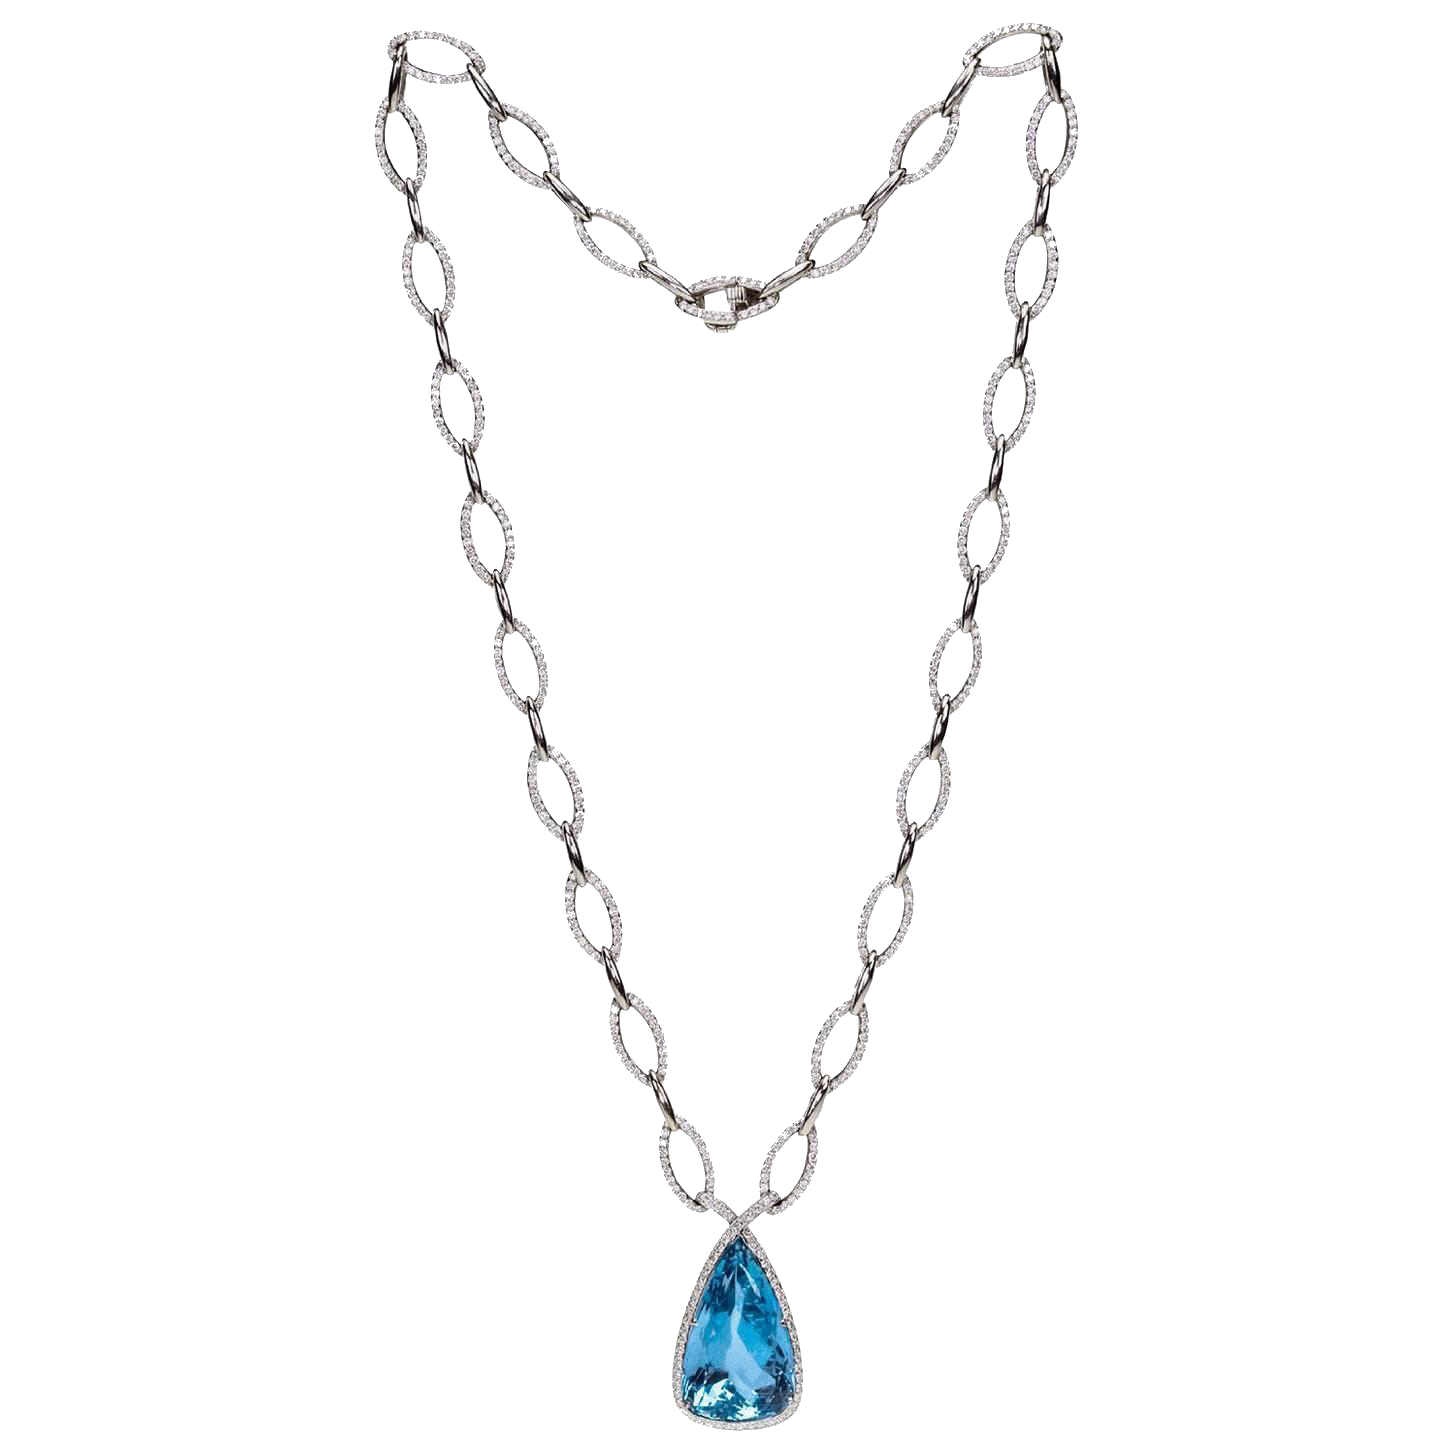
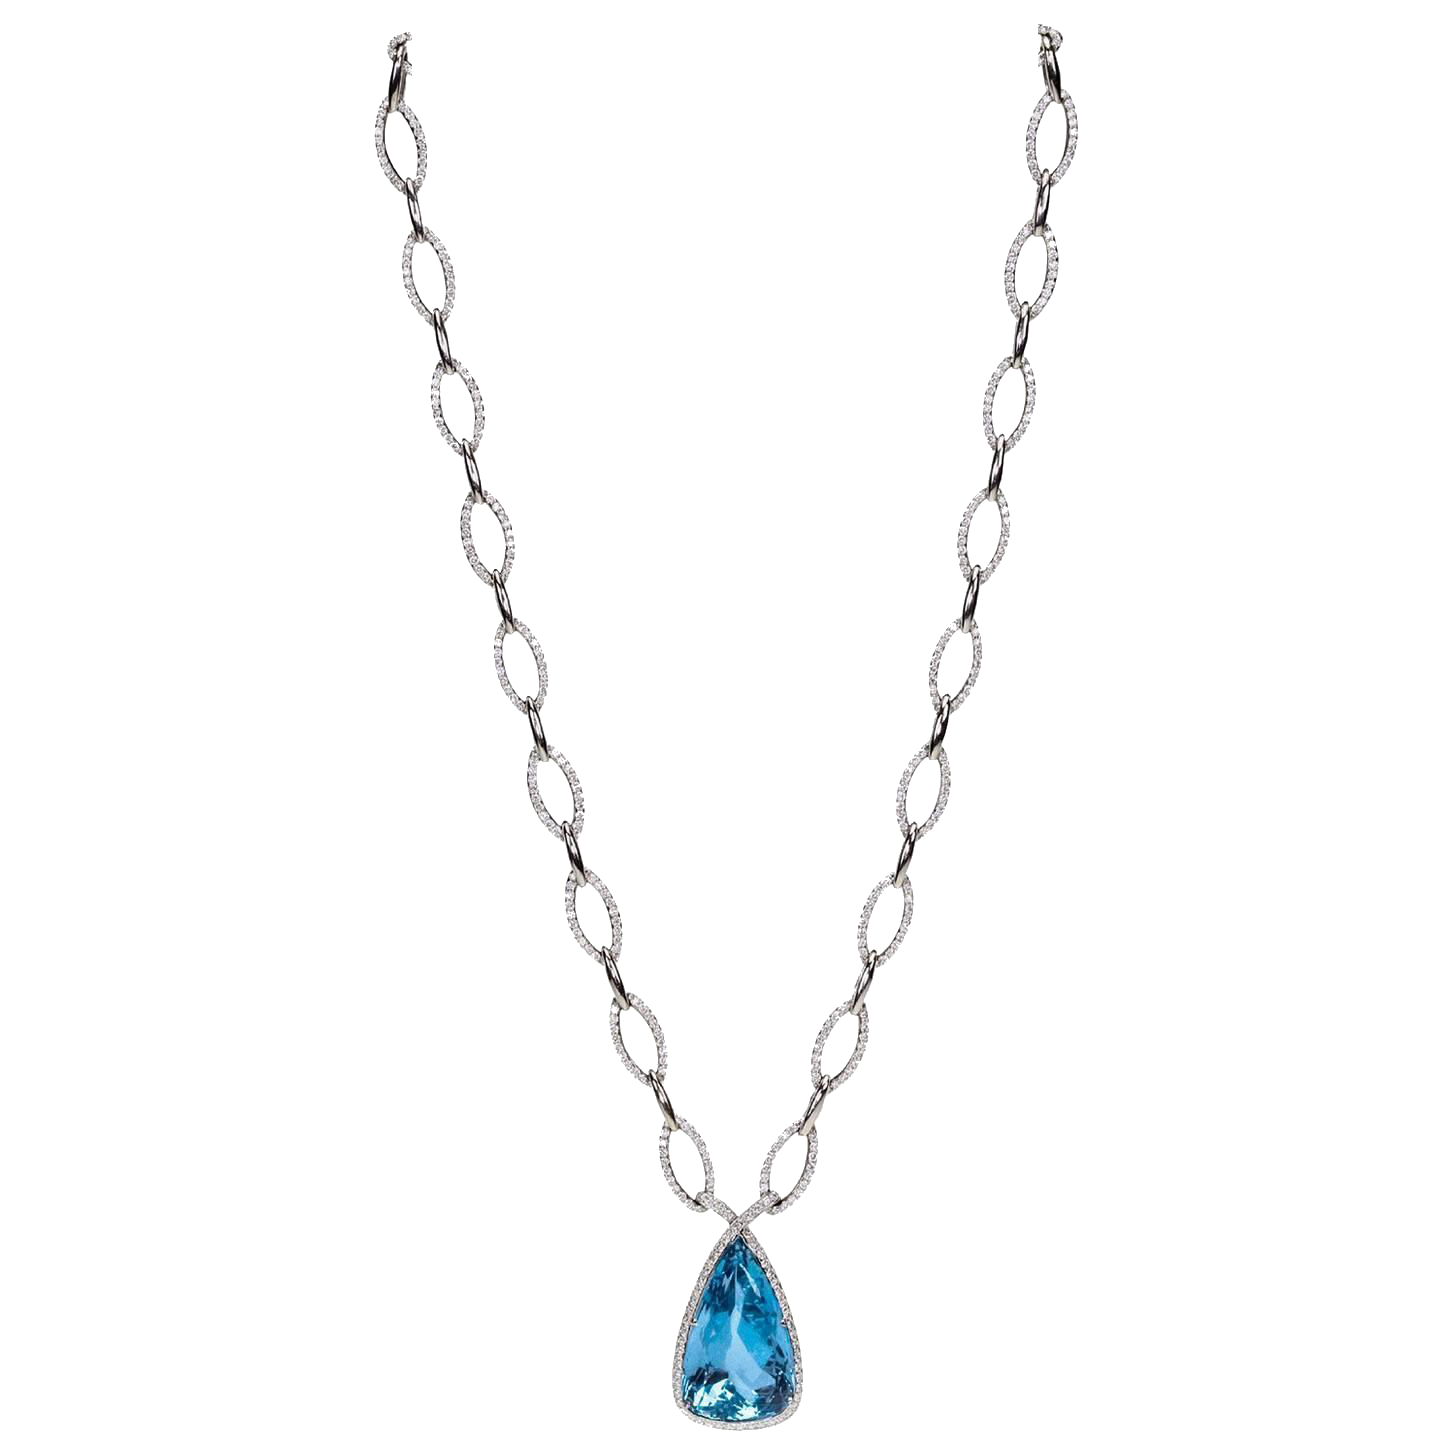
removed "back" of necklace for photo view

Changed region(s): [[0.2785, 0.0, 0.7118, 0.2476]]

diff --git a/src/components/MainMenu.js b/src/components/MainMenu.js
@@ -32,11 +32,11 @@ export default function MainMenu({ items, navigator }: MainMenuProps) {
     return (
          <ScrollView contentContainerStyle={styles.container}>
             {items.map(item => {
-                const { title, imageSource } = item;
+                const { title, imageSource, listImageSource } = item;
 
                 return (
                     <MenuItem
-                        imageSource={imageSource}
+                        imageSource={listImageSource || imageSource}
                         key={title}
                         title={title}
                         onPress={() => navigateToItem(item)}

diff --git a/src/reducers/index.js b/src/reducers/index.js
@@ -13,6 +13,7 @@ const defaultItems = [
     },
     {
         title: 'Very Fine Santa Maria Aquamarine Diamond Gold Drop Necklace',
+        listImageSource: require('../assets/jewelry_with_back.png'),
         imageSource: require('../assets/jewelry.png'),
         pdpImageSource: require('../assets/mock_jewelry.png')
     },
